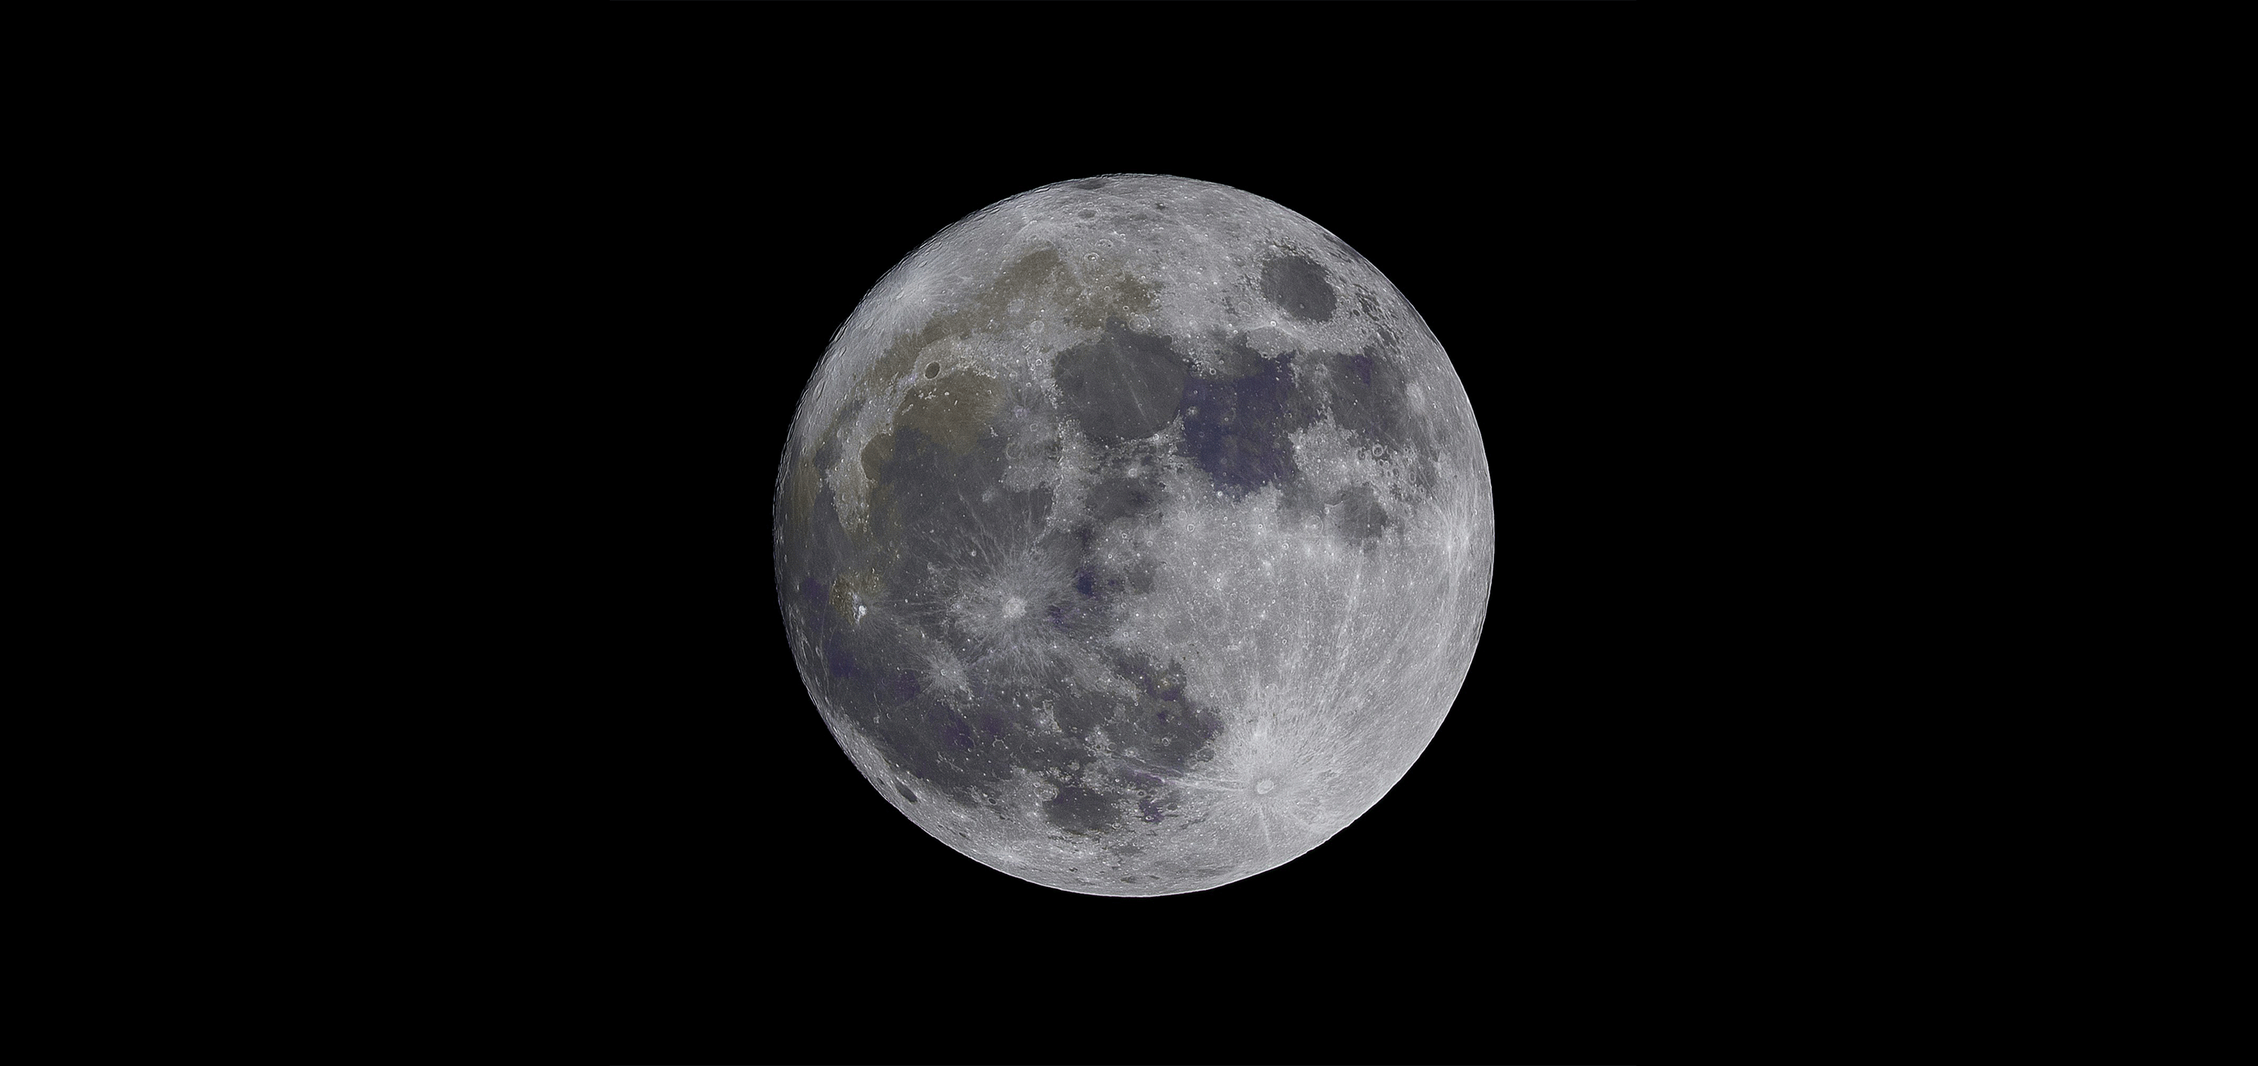
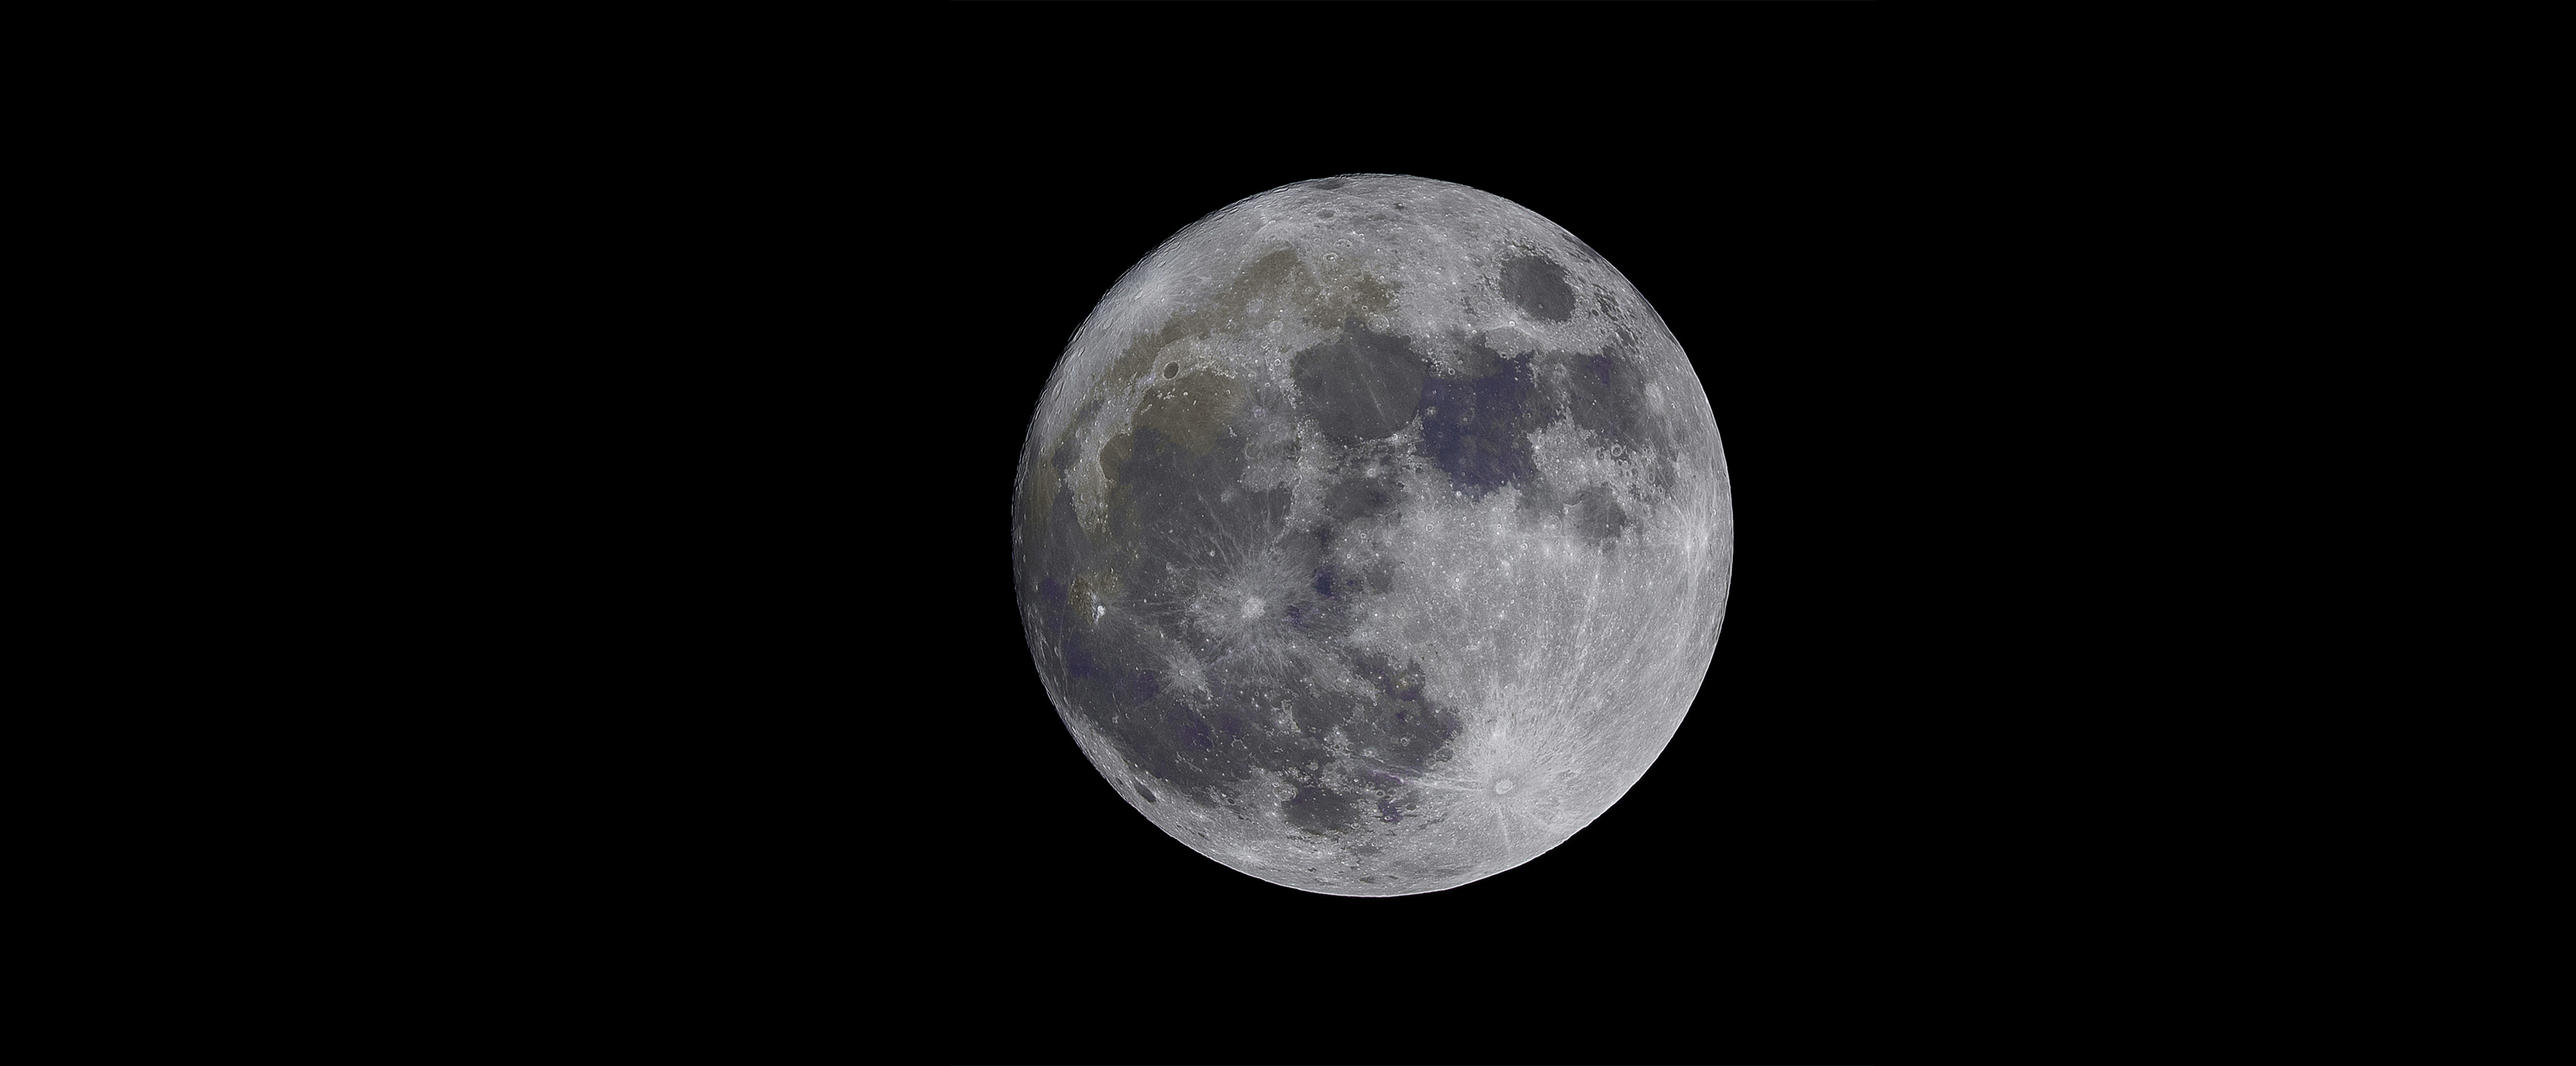
배경화면 반응형

Changed region(s): [[0.341, 0.1553, 0.682, 0.8384]]

diff --git a/css/scss/main.scss b/css/scss/main.scss
@@ -2,19 +2,37 @@
     transition-duration: 0.8s;
 }
 
+body{
+    -ms-overflow-style: none;
+}
+    
+::-webkit-scrollbar {
+    display: none;
+}
+
 .section{
-    width: 100%;
+    width: 100vw;
     height: 100vh;
     font-size: 32px; 
     text-align: center;
-    background-color:rgb(39, 39, 39); 
+    background-color: black;
     color: aliceblue;
     
 }
-.section_1 {
-    background-color: black;
+
+.section_1,.section_2 {
+    width: 85%;
+    margin: 0 auto;
 }
-.section_1 img {
-    // width: 1920px;
+
+.section_2 {
+    margin-right: 0;
+}
+
+.section_1 img, .section_2 img {
+    width: 100%;
     height: 100vh;
+    object-fit: cover; 
 }
+
+

diff --git a/css/css/main.css b/css/css/main.css
@@ -2,19 +2,35 @@
   transition-duration: 0.8s;
 }
 
+body {
+  -ms-overflow-style: none;
+}
+
+::-webkit-scrollbar {
+  display: none;
+}
+
 .section {
-  width: 100%;
+  width: 100vw;
   height: 100vh;
   font-size: 32px;
   text-align: center;
-  background-color: rgb(39, 39, 39);
+  background-color: black;
   color: aliceblue;
 }
 
-.section_1 {
-  background-color: black;
+.section_1, .section_2 {
+  width: 85%;
+  margin: 0 auto;
 }
 
-.section_1 img {
+.section_2 {
+  margin-right: 0;
+}
+
+.section_1 img, .section_2 img {
+  width: 100%;
   height: 100vh;
+  -o-object-fit: cover;
+     object-fit: cover;
 }

diff --git a/main.html b/main.html
@@ -14,10 +14,14 @@
     <main>  
         <div id="1" class="section">
             <div class="section_1">
-                <img src="/image/section_1.png" alt="">
+                <img src="/image/section_1.png">
             </div>
         </div>
-        <div id="2" class="section">2</div>
+        <div id="2" class="section">
+            <div class="section_2">
+                <img src="/image/section_2.png" >
+            </div>
+        </div>
         <div id="3" class="section">3</div>
         <div id="4" class="section">4</div>
         <!-- <div id="5" class="section">5</div> -->
